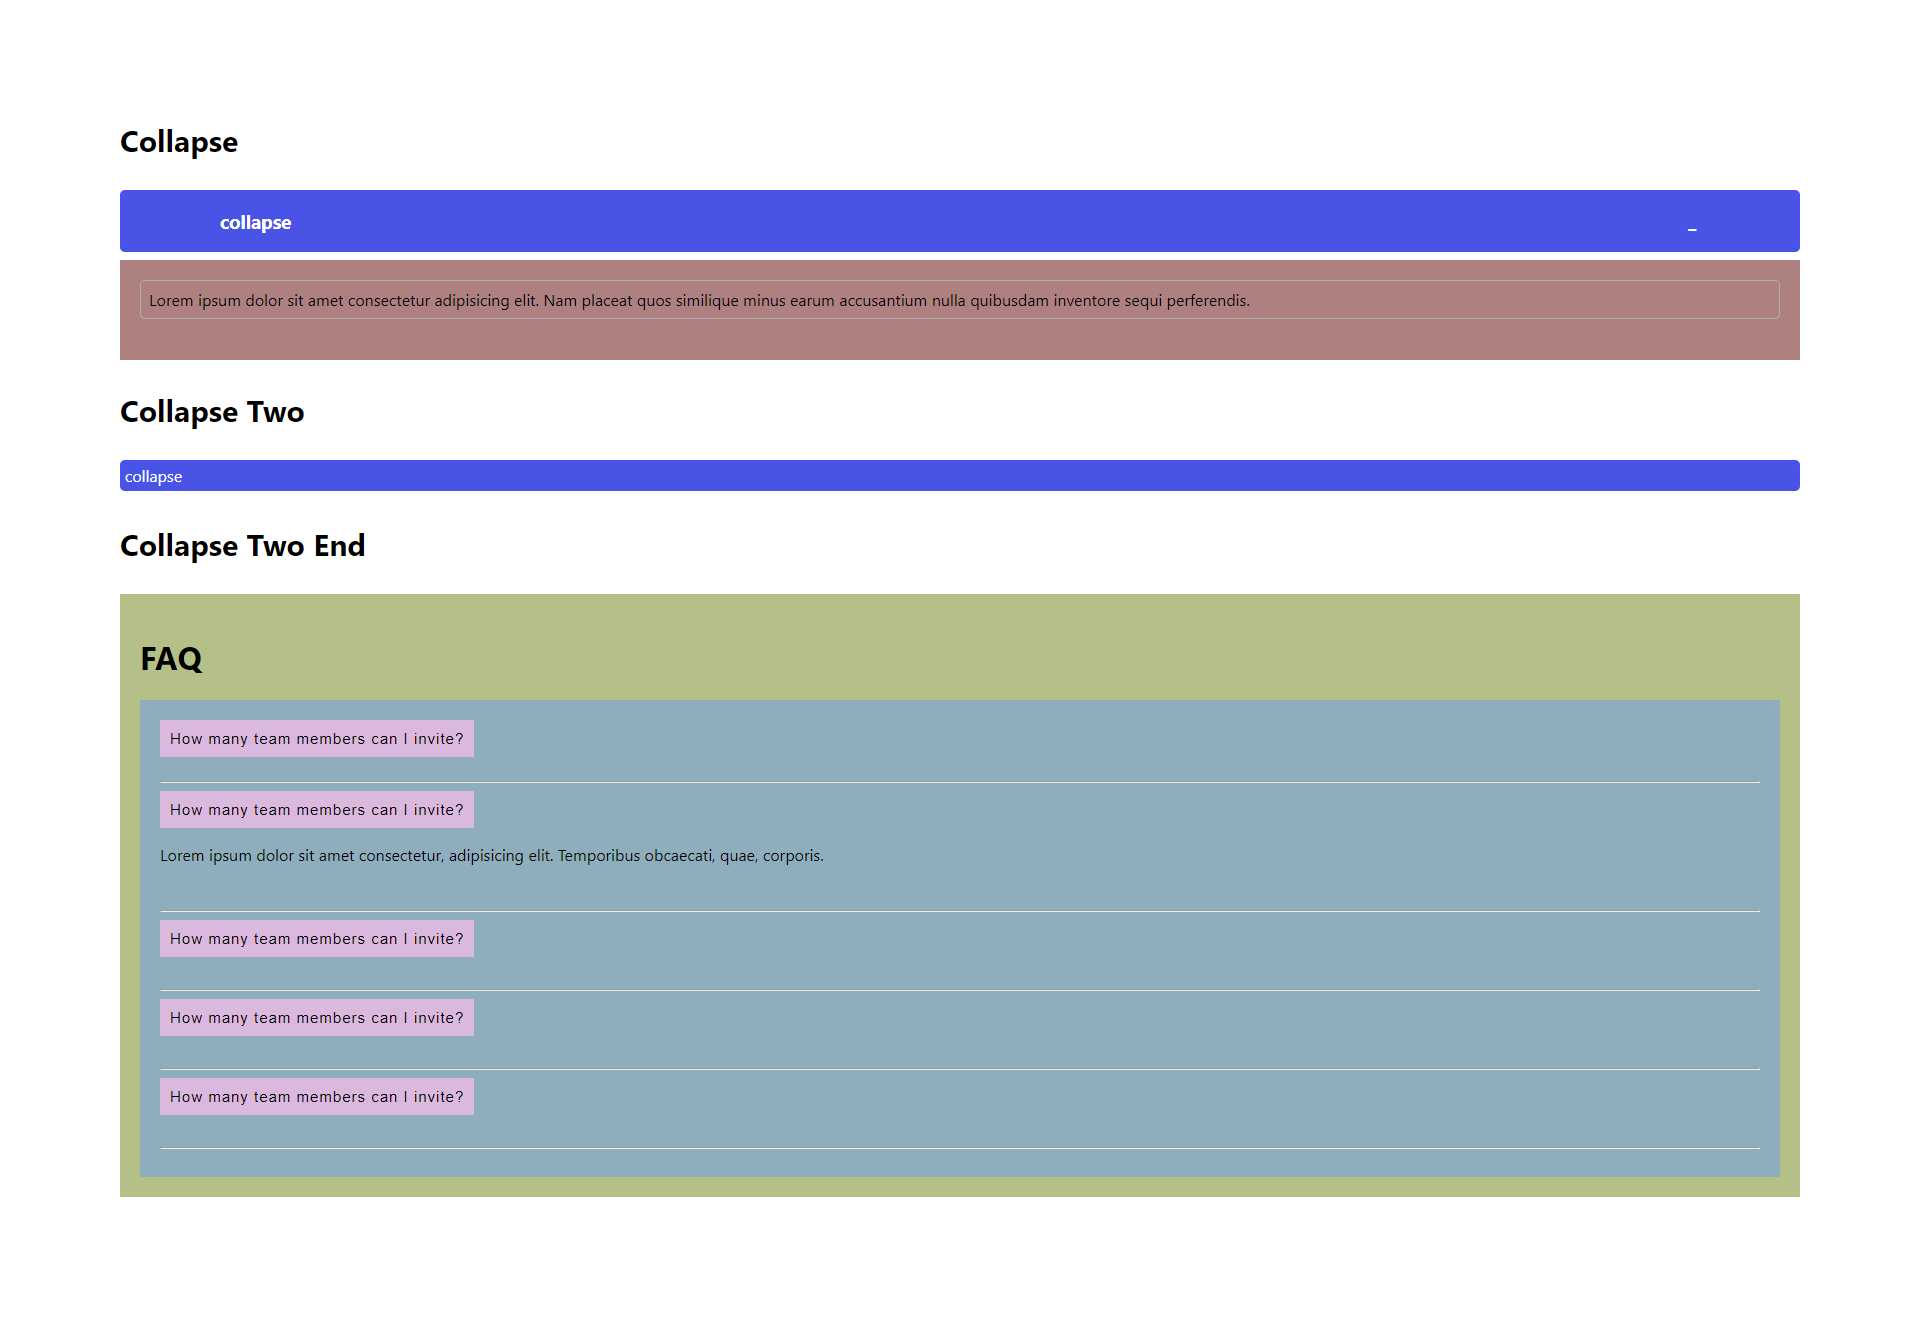
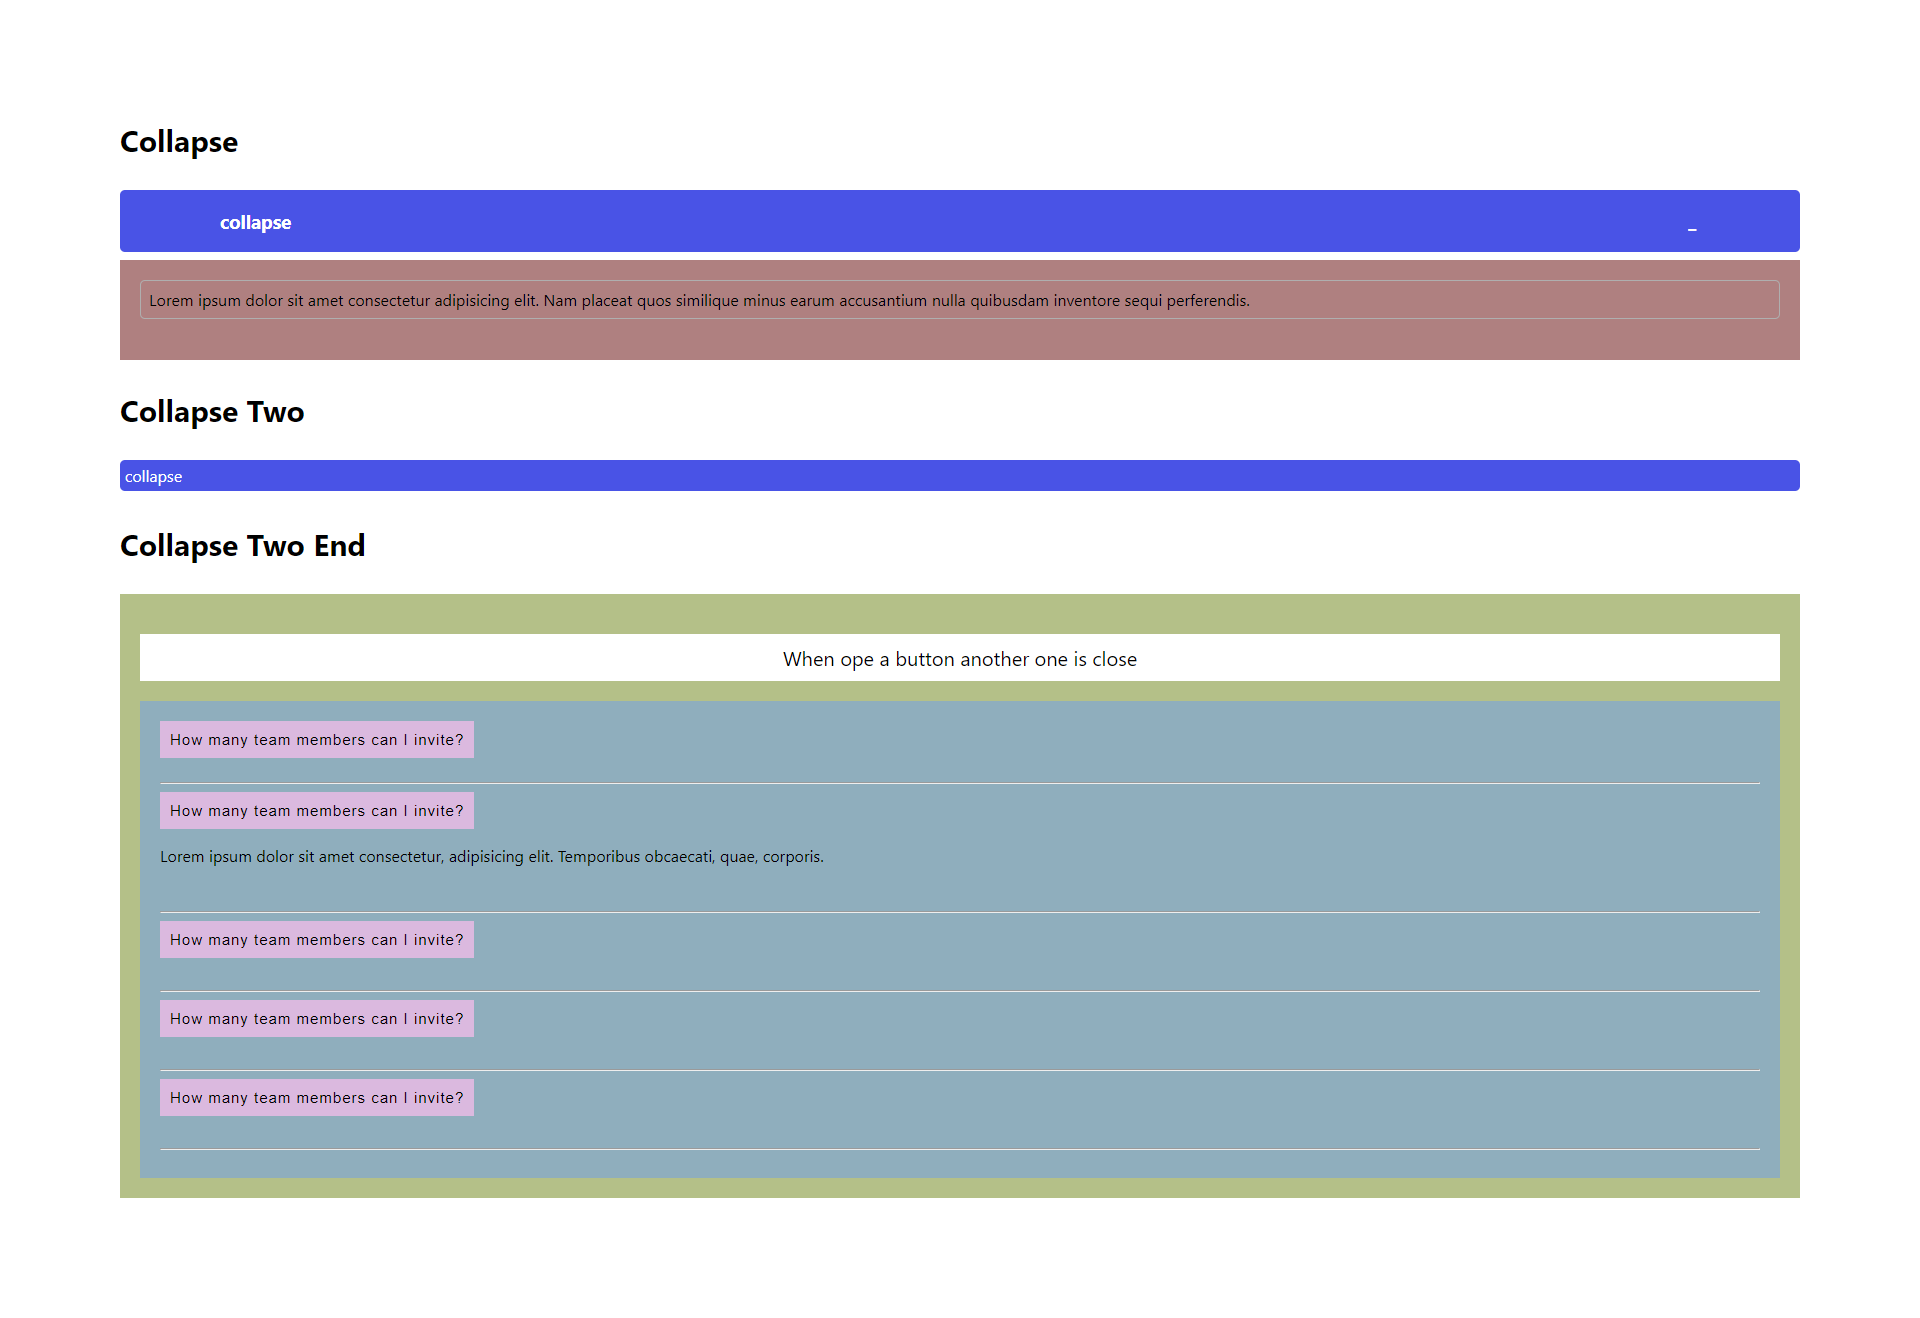
changed work_preview img

diff --git a/src/collapseThree.js b/src/collapseThree.js
@@ -24,7 +24,7 @@ const CollapseTwo = () => {
             <div className="container">
 
                 <div className="textBox">
-                    <h1>FAQ</h1>
+                    <p style={{ fontSize: '20px', background: '#fff', textAlign: 'center', padding: '10px 0' }}>When ope a button another one is close</p>
                     <div className="questions">
                         <div>
                             <button
